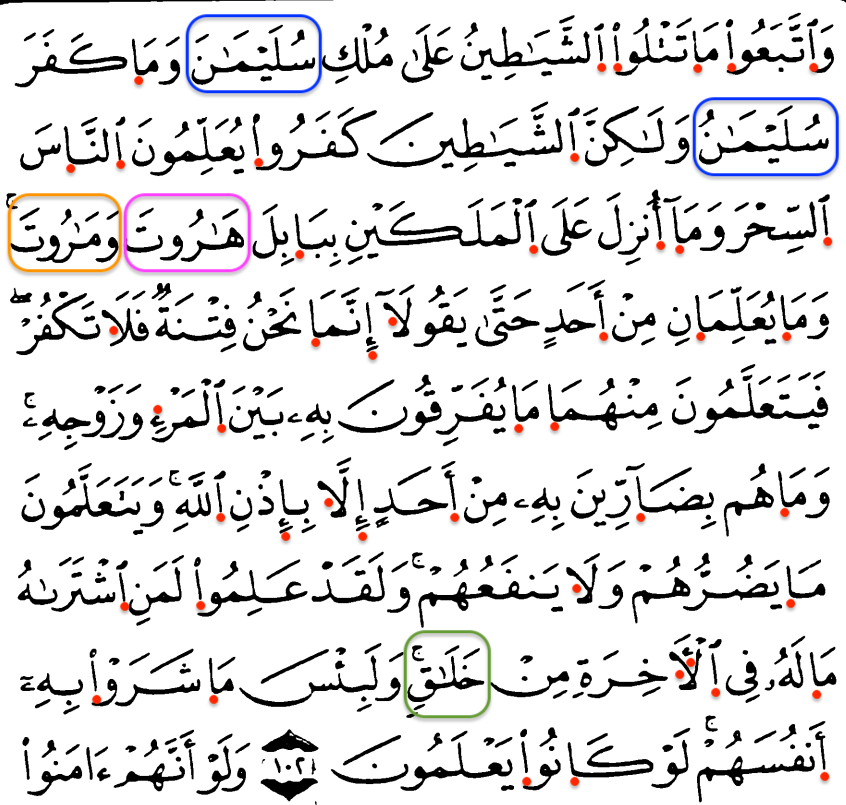
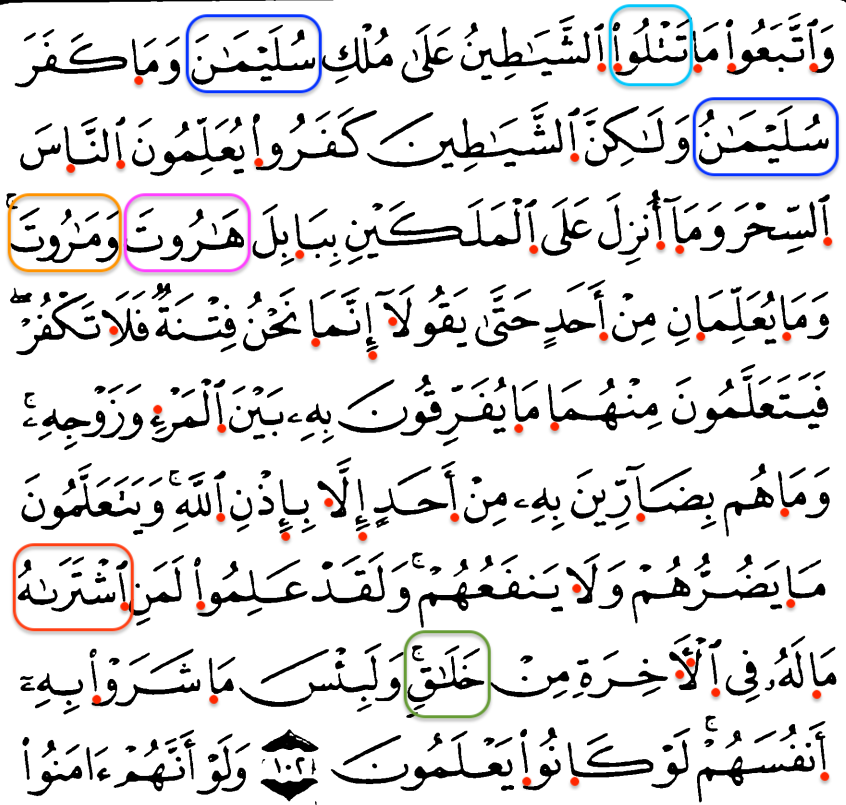
Fix TEBLU', ETLU', TETLU', LITETLU', NETLU', SAETLU', SALU', LESALU', LIYEBLU', VENEBLU', MURSELU' and EShTERAH words with the help of 10:30 and 2:102

diff --git a/docs/STEPS.md b/docs/STEPS.md
@@ -1,4 +1,6 @@
-# “My  Lord,  I  seek  refuge  in  You from the whispers of the devils. And  I  seek  refuge  in  You,  my Lord, lest they come near me.”
+# [47:7] O you who believe, if you support GOD,  He  will  support  you,  and strengthen your foothold.
+
+## “My  Lord,  I  seek  refuge  in  You from the whispers of the devils. And  I  seek  refuge  in  You,  my Lord, lest they come near me.”
 
 0. NUN
 ```
@@ -972,7 +974,7 @@
 * 7:32, 24:26
 ---
 
-43. AMENU
+43. A-MENU
 ```
 امنوا -> ءامنوا
 ```
@@ -3319,29 +3321,18 @@
 * 7:158
 * 9:18
 * 9:19
-* 10:31
-* 10:35
 * 10:83
 * 11:36
 * 11:40
 * 18:88
-* 27:60
-* 27:61
-* 27:62
-* 27:63
-* 27:64
 * 27:89
 * 28:80
 * 37:148
-* 39:9
 * 40:30
 * 40:38
 * 46:17
 * 46:31
 * 47:2
-* 67:20
-* 67:21
-* 67:22
 ---
 ![7:75](../pictures/7-75.png)
 
@@ -3352,7 +3343,7 @@
 ---
 ---
 
-92. AMENTUM
+92. A-MENTUM
 ```
 امنتم -> ءامنتم
 ```
@@ -4156,7 +4147,7 @@
 ---
 ---
 
-126. AMENNA, FEAMENNA
+126. A-MENNA, FEA-MENNA
 ```
 امنا -> ءامنا
 فامنا -> فءامنا
@@ -11092,6 +11083,61 @@
 ---
 ![10:25](../pictures/10-25.png)
 ![2:221](../pictures/2-221.png)
+
+---
+---
+
+430. TEBLU', ETLU', TETLU', LITETLU', NETLU', SAETLU', SALU', LESALU', LIYEBLU', VENEBLU', MURSELU'
+```
+تبلو -> تبلوا
+```
+* 10:30
+```
+اتلو -> اتلوا
+تتلو -> تتلوا
+لتتلو -> لتتلوا
+نتلو -> نتلوا
+```
+* 27:92, 2:102, 13:30, 28:3
+
+<>
+* 10:61
+* 28:45
+* 29:48
+```
+ساتلو -> ساتلوا
+```
+* 18:83
+```
+صالو -> صالوا
+لصالو -> لصالوا
+```
+* 38:59, 83:16
+```
+ليبلو -> ليبلوا
+ونبلو -> ونبلوا
+```
+* 47:4, 47:31
+```
+مرسلو -> مرسلوا
+```
+* 54:27
+---
+![10:30](../pictures/10-30.png)
+
+---
+---
+
+431. EShTERAH
+```
+اشتراه -> اشتريه
+```
+* 2:102
+
+<>
+* 12:21
+---
+![2:102](../pictures/2-102.png)
 
 ---
 ---
